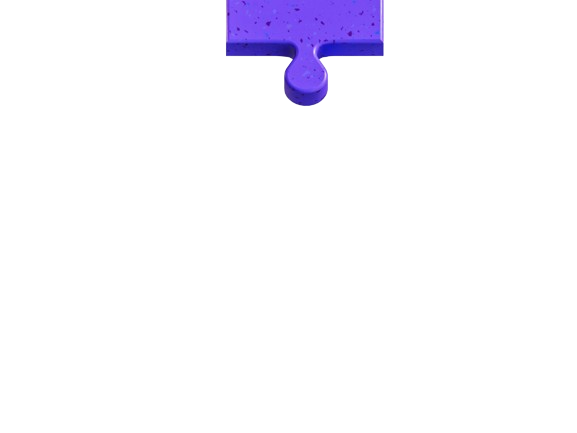
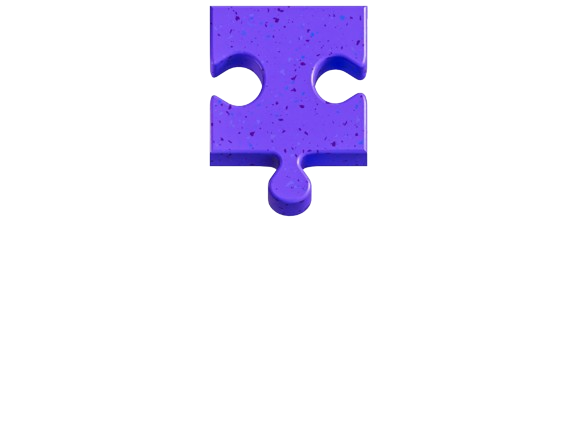
profile

Changed region(s): [[0.3432, 0.0, 0.6863, 0.5104]]

diff --git a/portafolio v.2/src/Components/Profile /Profile.tsx b/portafolio v.2/src/Components/Profile /Profile.tsx
@@ -3,6 +3,8 @@ import { ProfileCard } from "../types/types";
 import mueble from "./mueble.png";
 import one from "./1.png";
 import two from "./2.png";
+import three from "./3.png";
+import four from "./4.png";
 
 interface ProfileCardProps {
   education: ProfileCard[];
@@ -39,9 +41,12 @@ const Profile = ({ education }: ProfileCardProps) => {
       <div className="rueda2 h-100">
         <img src={two} />
       </div>
-      {/* <div className="rueda3 h-100">
+      <div className="rueda3 h-100">
         <img src={three} />
-      </div> */}
+      </div>
+      <div className="rueda4 h-100">
+        <img src={four} />
+      </div>
     </div>
   );
 };

diff --git a/portafolio v.2/src/Components/Profile /Profile.scss b/portafolio v.2/src/Components/Profile /Profile.scss
@@ -70,7 +70,7 @@
 .rueda1 {
   position: absolute;
   z-index: -1;
-  top: 0;
+  top: -3%;
   right: 17%;
   img {
     height: 25%;
@@ -82,24 +82,24 @@
   top: 10%;
   left: -17%;
   img {
-    height: 35%;
+    height: 40%;
   }
 }
 .rueda3 {
   position: absolute;
   z-index: -1;
-  top: -10%;
-  left: 12%;
+  top: 44%;
+  right: -22.5%;
   img {
-    height: 25%;
+    height: 40%;
   }
 }
 .rueda4 {
   position: absolute;
   z-index: -1;
-  top: -10%;
+  top: 67%;
   left: 12%;
   img {
-    height: 25%;
+    height: 35%;
   }
 }
